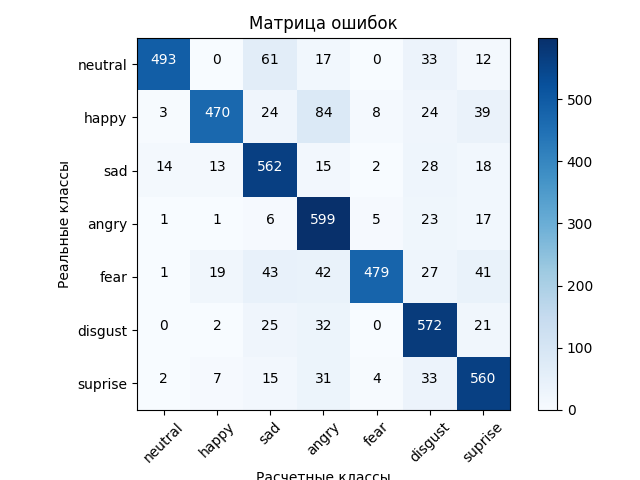
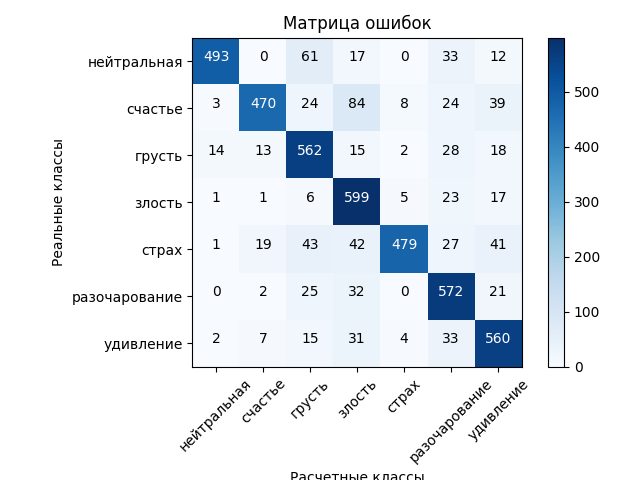
Confusion matrix localization

diff --git a/frontend/src/ui/pages/App/components/Metrics/styles.ts b/frontend/src/ui/pages/App/components/Metrics/styles.ts
@@ -4,7 +4,7 @@ import { backgroundColorDark } from '../../../../../config/style';
 const useStyles = makeStyles((theme: Theme) =>
   createStyles({
     container: {
-      width: '70vmax',
+      width: '60vmax',
       marginBottom: '20vmin',
     },
     cell: {

diff --git a/model/confusion_matrix.py b/model/confusion_matrix.py
@@ -8,7 +8,7 @@ import numpy as np
 from sklearn.metrics import classification_report, confusion_matrix
 from sklearn.model_selection import train_test_split
 
-from config import MODEL_DIR_PATH, SAVE_DIR_PATH, classes
+from config import MODEL_DIR_PATH, SAVE_DIR_PATH, classes_ru
 
 
 def plot_confusion_matrix(confusion_matrix, classes,
@@ -54,7 +54,7 @@ if __name__ == '__main__':
     new_y_test = y.astype(int)
     matrix = confusion_matrix(new_y_test, predictions)
 
-    plot_confusion_matrix(matrix, classes=classes)
+    plot_confusion_matrix(matrix, classes=classes_ru)
     plt.savefig('plots/confusion_matrix.png')
     plt.show()
 

diff --git a/model/config.py b/model/config.py
@@ -9,3 +9,5 @@ TESS_ORIGINAL_FOLDER_PATH = str(working_dir_path) + '/TESS_RAW/'
 SAVEE_ORIGINAL_FOLDER_PATH = str(working_dir_path) + '/SAVEE_RAW/'
 
 classes = ['neutral', 'happy', 'sad', 'angry', 'fear', 'disgust', 'suprise']
+classes_ru = ['нейтральная', 'счастье', 'грусть',
+              'злость', 'страх', 'разочарование', 'удивление']

diff --git a/model/predict.py b/model/predict.py
@@ -26,3 +26,4 @@ if __name__ == '__main__':
     y = joblib.load(SAVE_DIR_PATH + '/y.joblib')
 
     print(counter / len(X))
+    print(len(X))
